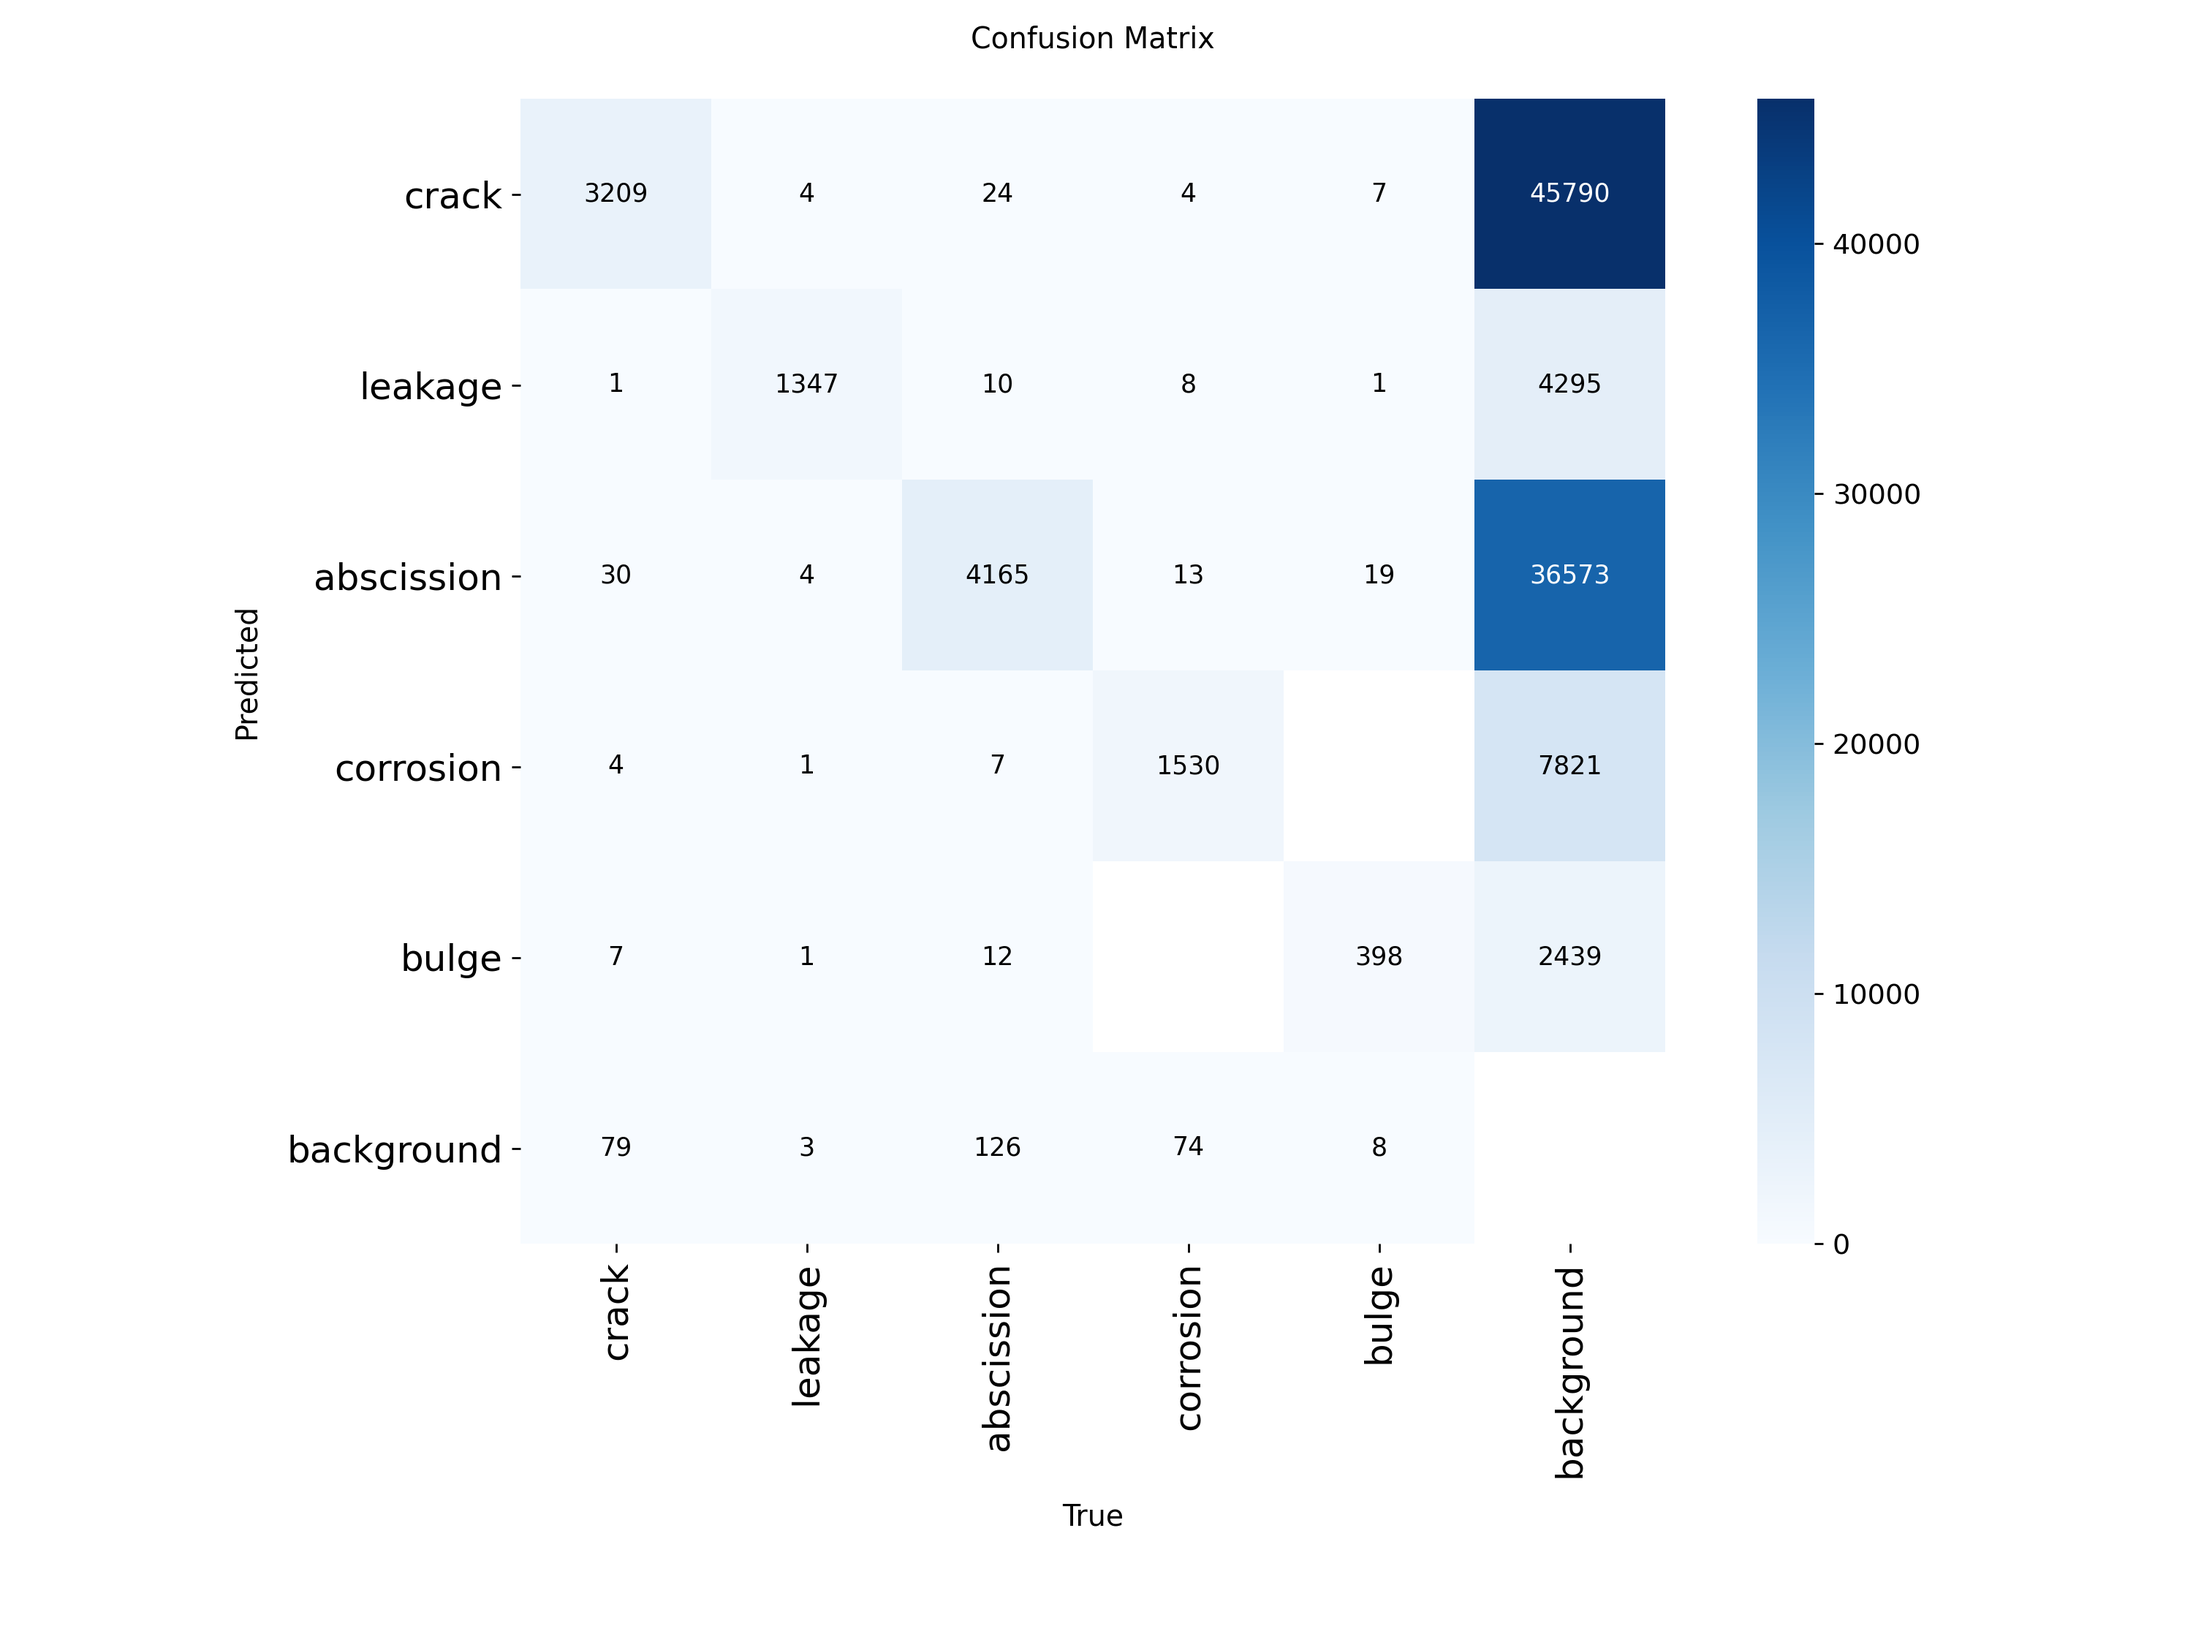
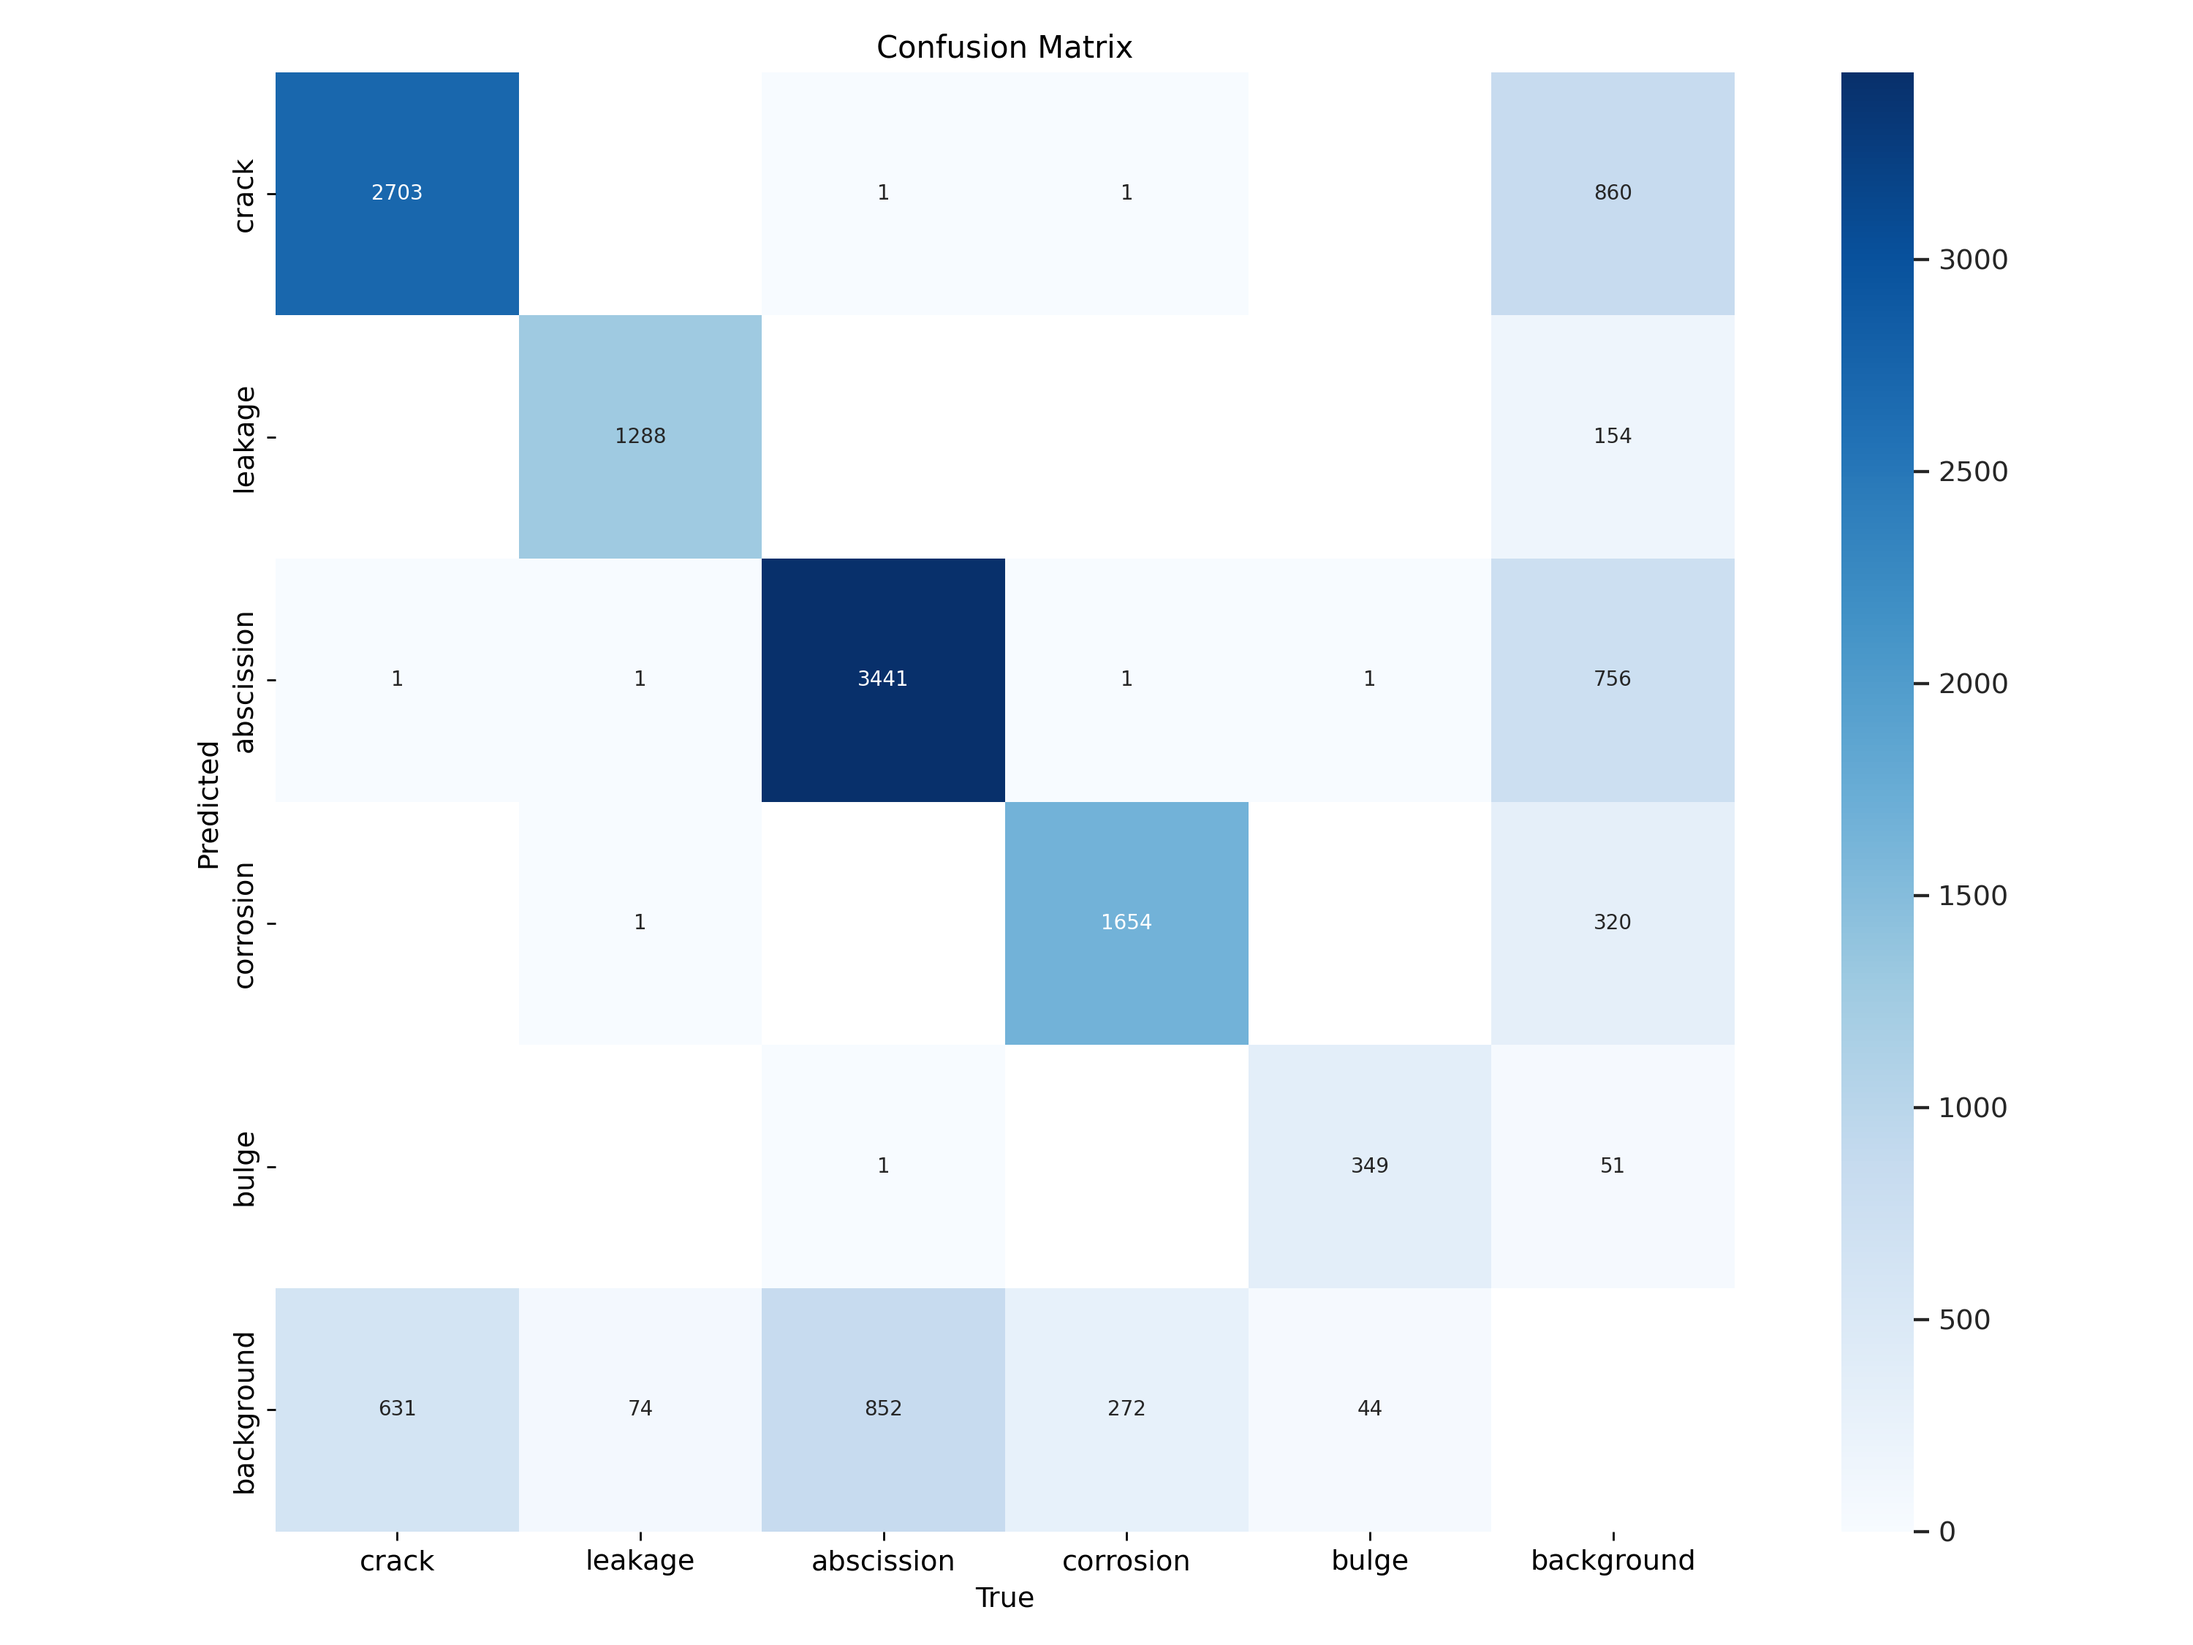
feat(ai): retrain YOLO11s candidate on MBDD2025 and record held-out metrics

diff --git a/ai-inference/README.md b/ai-inference/README.md
@@ -12,7 +12,7 @@ it.
 | --- | --- |
 | Kaggle kernel | `natsumeeei/smartdroneinspection-mbdd2025-yolo11s-training` |
 | Dataset | [`asadibehnam/mbdd2025-uav-building-defect-detection`](https://www.kaggle.com/datasets/asadibehnam/mbdd2025-uav-building-defect-detection) — 14,471 VOC-annotated UAV images; Kaggle mirror of [MBDD2025 on Zenodo](https://doi.org/10.5281/zenodo.15622584), CC BY 4.0 |
-| Base model | YOLO11s pretrained weights, up to 100 epochs, imgsz 640, AdamW, cosine LR |
+| Base model | YOLO11s pretrained weights, 50 epochs, imgsz 640, AdamW, cosine LR, batch 32 |
 | Classes | `crack`, `leakage`, `abscission`, `corrosion`, `bulge` (fixed ID order in notebook) |
 
 Files in this folder:
@@ -27,11 +27,28 @@ ai-inference/
 └── models/
     ├── best.pt             YOLO11s weights used by the service
     ├── best.onnx           ONNX export (for embedding elsewhere)
-    └── training/           results.png, confusion_matrix.png (report evidence)
+    └── training/           results.png, confusion_matrix.png, PR_curve.png,
+                            test_metrics.json, provenance.json, training_results.csv
 ```
 
 `best.pt` and `best.onnx` are git-ignored: they are large binaries, and a rebuild
 should come from the kernel rather than from the repository.
+
+## Current deployed candidate
+
+The service currently serves the weights produced by the 50-epoch run recorded in
+`models/training/provenance.json`:
+
+| Metric (held-out test split, 1,448 unseen images) | Value |
+| --- | --- |
+| mAP@0.5 | 85.8% |
+| mAP@0.5:0.95 | 48.8% |
+| Precision | 85.7% |
+| Recall | 79.6% |
+
+Per-class mAP@0.5: `leakage` 94.7%, `corrosion` 88.5%, `bulge` 87.7%,
+`abscission` 80.1%, `crack` 77.9%. The best validation epoch was epoch 47;
+`models/training/training_results.csv` holds the full 50-epoch curve.
 
 ## Training and retrieving a candidate
 
